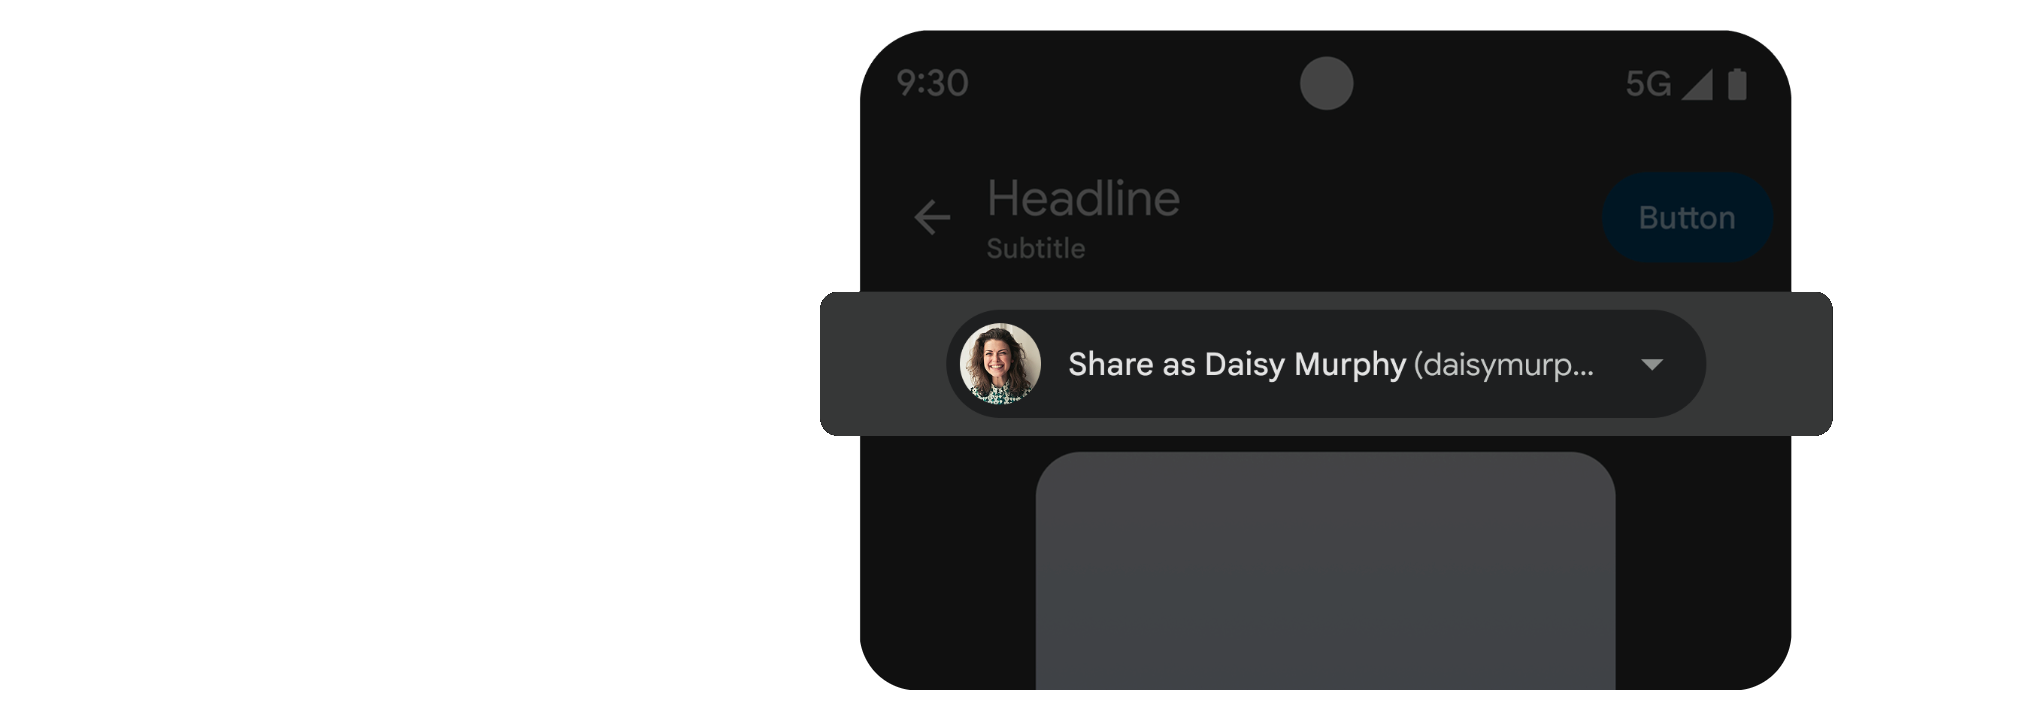
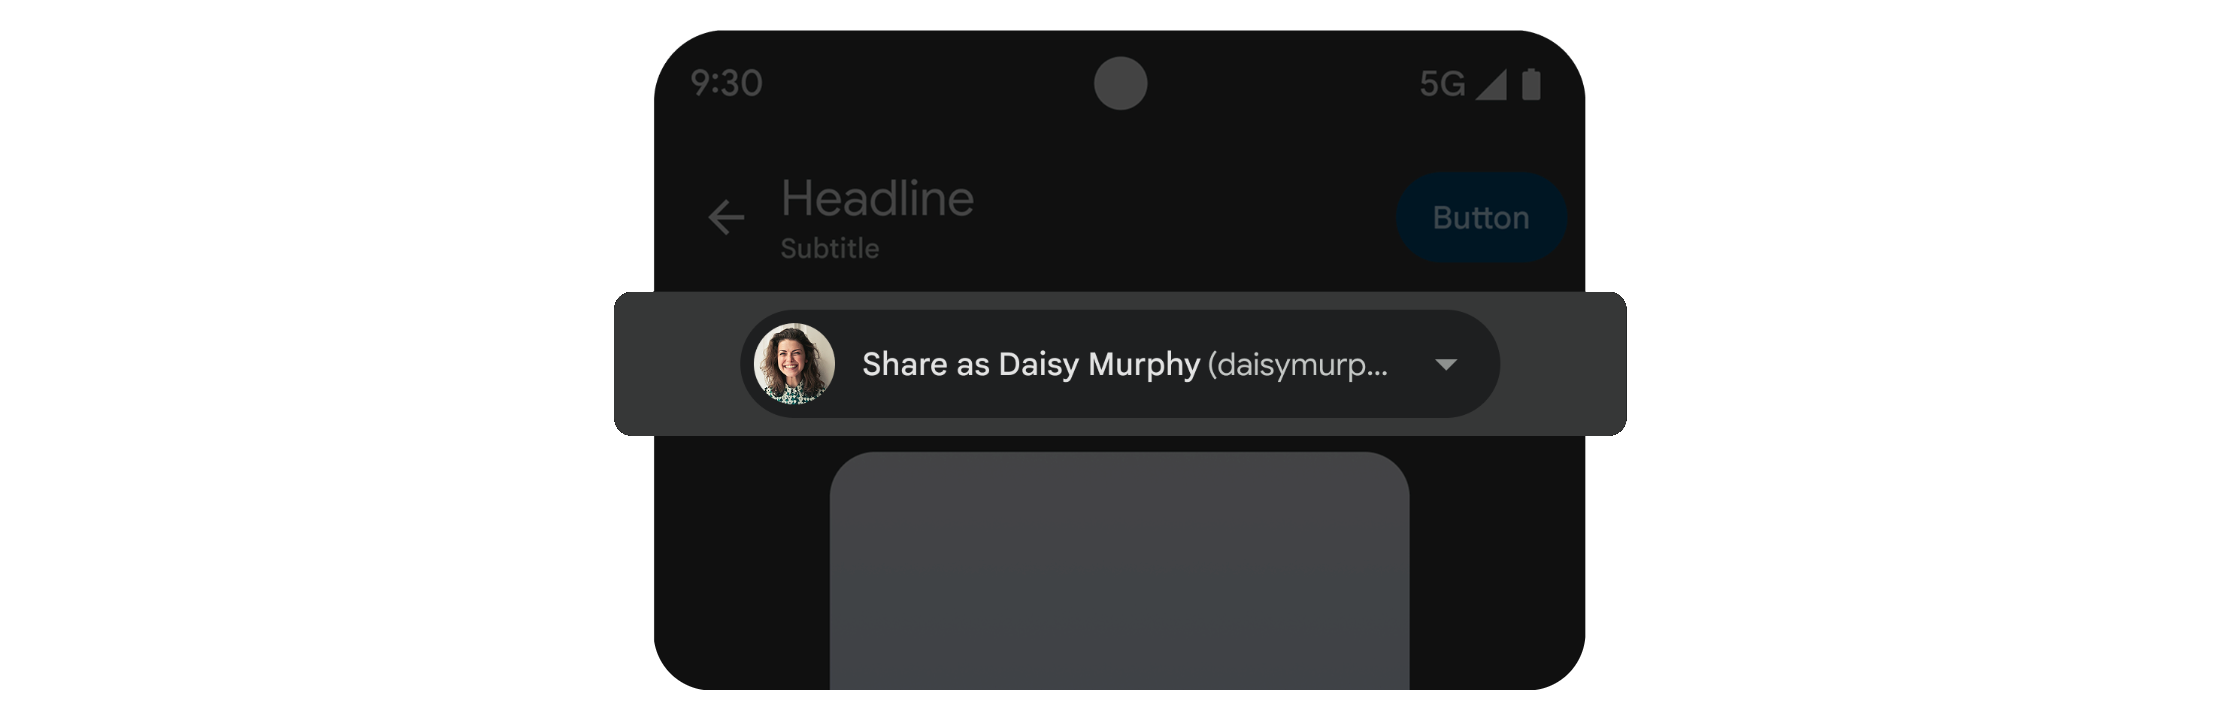
Center-align first ShareKit Design Principles mock (sk_slide_218) to match mocks below (?v=210)

diff --git a/sharing-design-system.html b/sharing-design-system.html
@@ -306,8 +306,8 @@
           <div class="annotated-principle-visual">
             <p class="case-caption">PROFILE ATTRIBUTION &amp; IDENTITY</p>
             <div class="sk-annotated-mock">
-              <img src="assets/mocks/sk_slide_218.png?v=27" alt="ShareKit Profile Attribution Proposal" class="sk-base-layer" loading="lazy">
-              <img src="assets/mocks/sk_slide_218_annot.png?v=27" alt="" aria-hidden="true" class="sk-annot-layer" loading="lazy">
+              <img src="assets/mocks/sk_slide_218.png?v=210" alt="ShareKit Profile Attribution Proposal" class="sk-base-layer" loading="lazy">
+              <img src="assets/mocks/sk_slide_218_annot.png?v=210" alt="" aria-hidden="true" class="sk-annot-layer" loading="lazy">
             </div>
           </div>
         </div>
